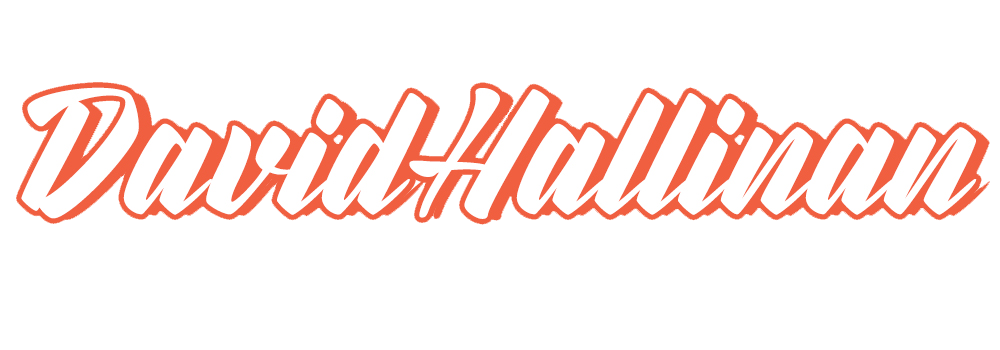
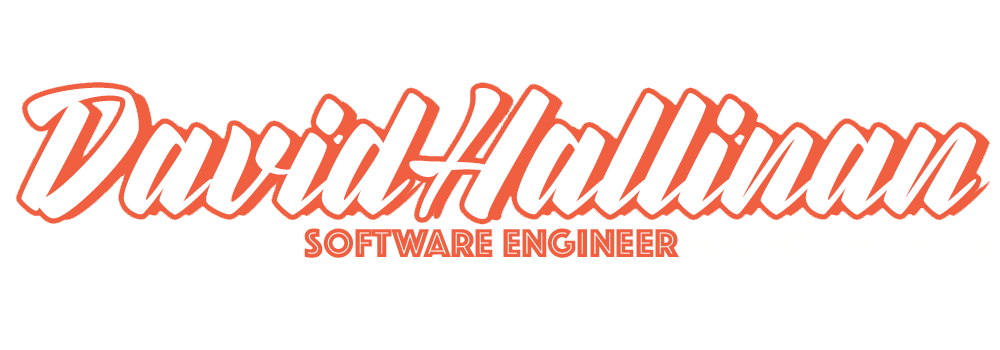
add assets. remove description

Changed region(s): [[0.279, 0.6286, 0.682, 0.7429]]

diff --git a/index.html b/index.html
@@ -70,8 +70,6 @@
         <div class="header-content">
             <div class="header-content-inner">
                 <img src="img/DH.png" class="img-responsive main-logo" alt="">
-                <hr>
-                <p>Web Developer, Software Engineer and Sound Engineer</p>
             </div>
         </div>
     </header>
